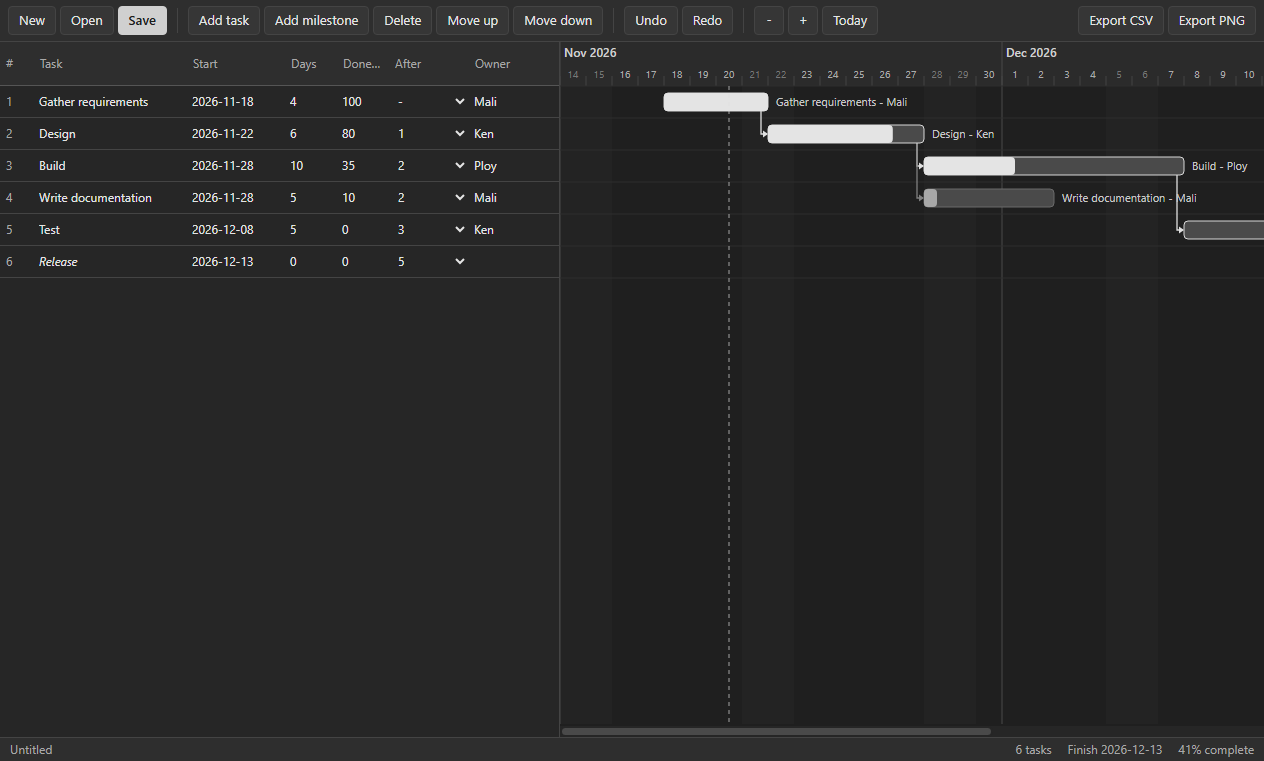
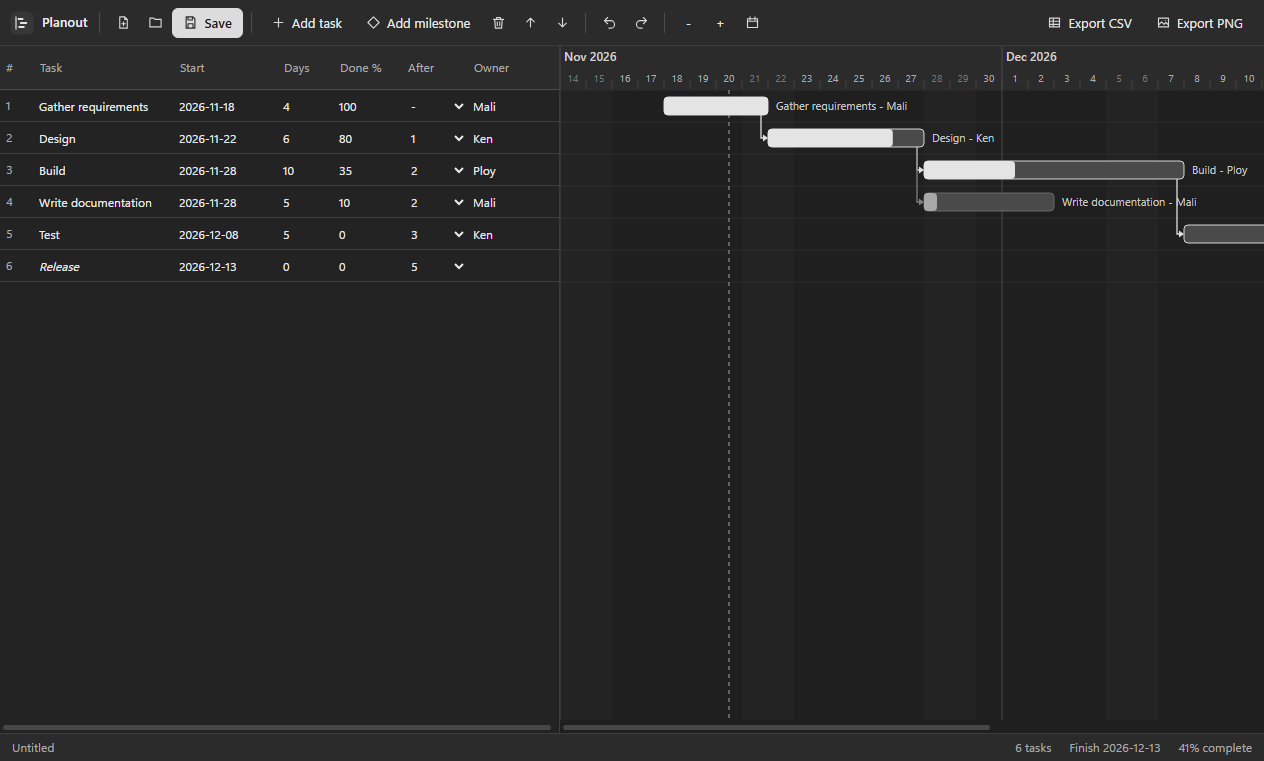
Planout 1.0.2: refreshed interface
Refreshed interface: line icons on every toolbar button, the app mark in the top bar, consistent control sizes and spacing, tidier side panels, and a toolbar that adapts to smaller windows. Also includes layout fixes and a fuller guide on the project page.

diff --git a/renderer/lookout.css b/renderer/lookout.css
@@ -1,62 +1,119 @@
-/* Lookout gray UI kit: flat, no glow, no gradients, no hue. */
+/* Lookout gray UI kit v2: flat, calm, no hue. Shared by every Lookout app. */
 :root{
-  --bg:#262626; --bg-2:#2e2e2e; --bg-3:#363636; --line:#444; --line-2:#555;
-  --text:#e4e4e4; --text-2:#a8a8a8; --text-3:#7c7c7c;
-  --accent:#d0d0d0; --accent-ink:#1c1c1c; --focus:#9a9a9a;
-  --radius:4px; --font:"Segoe UI",system-ui,-apple-system,sans-serif; --mono:Consolas,"Cascadia Mono",monospace;
+  --bg:#232323; --bg-2:#2b2b2b; --bg-3:#333333; --bg-4:#3b3b3b; --stage:#1c1c1c;
+  --line:#3d3d3d; --line-2:#4d4d4d; --line-3:#5c5c5c;
+  --text:#e8e8e8; --text-2:#ababab; --text-3:#7d7d7d;
+  --accent:#dcdcdc; --accent-ink:#1b1b1b; --focus:#a0a0a0;
+  --radius:6px; --h:30px;
+  --font:"Segoe UI Variable Text","Segoe UI",system-ui,-apple-system,sans-serif; --mono:Consolas,"Cascadia Mono",monospace;
 }
 *{box-sizing:border-box;margin:0;padding:0}
 html,body{height:100%;background:var(--bg);color:var(--text);font:13px/1.45 var(--font);overflow:hidden;user-select:none;-webkit-font-smoothing:antialiased}
 button,input,select,textarea{font:inherit;color:inherit}
 .app{display:grid;grid-template-rows:auto 1fr auto;height:100vh}
-.toolbar{display:flex;align-items:center;gap:4px;padding:6px 8px;background:var(--bg-2);border-bottom:1px solid var(--line);flex-wrap:wrap}
-.toolbar .sep{width:1px;align-self:stretch;background:var(--line);margin:2px 6px}
-.toolbar .grow{flex:1}
-.btn{background:var(--bg-3);border:1px solid var(--line);border-radius:var(--radius);padding:4px 10px;cursor:pointer;white-space:nowrap}
-.btn:hover{background:#404040;border-color:var(--line-2)}
+
+/* ---------- toolbar ---------- */
+.toolbar{display:flex;align-items:center;gap:2px;padding:7px 10px;min-height:46px;background:var(--bg-2);border-bottom:1px solid var(--line);flex-wrap:nowrap;overflow-x:auto;overflow-y:hidden;scrollbar-width:none}
+.toolbar::-webkit-scrollbar{height:0}
+.toolbar>*{flex-shrink:0}
+.toolbar .sep{width:1px;height:20px;align-self:center;background:var(--line-2);margin:0 6px}
+.toolbar .grow{flex:1 1 auto;min-width:8px}
+.toolbar input[type=text],.toolbar input[type=search]{width:170px}
+.brand{display:flex;align-items:center;gap:8px;padding-right:6px;margin-right:4px;font-weight:600;font-size:13px;color:var(--text)}
+.brand img{width:24px;height:24px;border-radius:6px;display:block}
+.brand+.sep{margin-left:0}
+
+/* ---------- buttons ---------- */
+.btn{display:inline-flex;align-items:center;justify-content:center;gap:6px;height:var(--h);padding:0 10px;background:var(--bg-3);border:1px solid var(--line);border-radius:var(--radius);cursor:pointer;white-space:nowrap;line-height:1;transition:background .08s,border-color .08s}
+.btn:hover{background:var(--bg-4);border-color:var(--line-2)}
 .btn:active{background:#2a2a2a}
-.btn:focus-visible,input:focus-visible,select:focus-visible,textarea:focus-visible,[tabindex]:focus-visible{outline:1px solid var(--focus);outline-offset:1px}
+.btn:focus-visible,input:focus-visible,select:focus-visible,textarea:focus-visible,[tabindex]:focus-visible{outline:2px solid var(--focus);outline-offset:1px}
 .btn.primary{background:var(--accent);color:var(--accent-ink);border-color:var(--accent);font-weight:600}
-.btn.primary:hover{background:#e0e0e0}
-.btn.on{background:#4a4a4a;border-color:var(--line-2)}
-.btn[disabled]{opacity:.4;pointer-events:none}
-.btn.icon{padding:4px 8px;min-width:30px;text-align:center}
-input[type=text],input[type=number],input[type=search],select,textarea{background:var(--bg);border:1px solid var(--line);border-radius:var(--radius);padding:4px 8px;user-select:text}
-input[type=range]{accent-color:#bdbdbd}
-input[type=color]{border:1px solid var(--line);background:var(--bg);width:28px;height:24px;padding:1px;border-radius:var(--radius)}
-label.field{display:flex;flex-direction:column;gap:3px;color:var(--text-2);font-size:12px}
-.main{display:flex;min-height:0}
-.sidebar{width:220px;background:var(--bg-2);border-right:1px solid var(--line);overflow:auto;padding:8px;flex-shrink:0}
-.sidebar.right{border-right:0;border-left:1px solid var(--line);width:250px}
-.sidebar h3,.panel-title{font-size:11px;text-transform:uppercase;letter-spacing:.08em;color:var(--text-3);margin:10px 0 6px;font-weight:600}
+.btn.primary:hover{background:#ececec;border-color:#ececec}
+.btn.on{background:#4a4a4a;border-color:var(--line-3);box-shadow:inset 0 0 0 1px #6a6a6a}
+.btn[disabled]{opacity:.38;pointer-events:none}
+.btn.icon{padding:0;width:var(--h);min-width:var(--h)}
+.btn .ic{width:15px;height:15px;flex-shrink:0;display:block;opacity:.92}
+.toolbar .btn:not(.primary):not(.on){background:transparent;border-color:transparent}
+.toolbar .btn:not(.primary):not(.on):hover{background:var(--bg-4);border-color:var(--line-2)}
+
+.toolbar.c1 .btn.minor:not(.primary):has(> svg.ic),.toolbar.c2 .btn:not(.primary):has(> svg.ic),.toolbar.c3 .btn:has(> svg.ic){font-size:0;gap:0;width:var(--h);padding:0}
+.toolbar.c2 .brand span{display:none}
+.toolbar.c2 input[type=text],.toolbar.c2 input[type=search]{width:120px}
+
+/* ---------- fields ---------- */
+input[type=text],input[type=number],input[type=search],input[type=date],select,textarea{background:var(--bg);border:1px solid var(--line-2);border-radius:var(--radius);padding:0 9px;height:var(--h);user-select:text;min-width:0}
+textarea{height:auto;padding:7px 9px;resize:vertical;line-height:1.45}
+select{padding-right:6px;cursor:pointer}
+input:hover,select:hover,textarea:hover{border-color:var(--line-3)}
+input[type=range]{accent-color:#c8c8c8;height:var(--h)}
+input[type=checkbox]{accent-color:#c8c8c8;width:15px;height:15px;cursor:pointer}
+input[type=color]{border:1px solid var(--line-2);background:var(--bg);width:30px;height:var(--h);padding:2px;border-radius:var(--radius)}
+label.field{display:flex;flex-direction:column;gap:4px;color:var(--text-2);font-size:12px}
+label.field>input,label.field>select,label.field>textarea{width:100%;color:var(--text);font-size:13px}
+
+/* ---------- layout ---------- */
+.main{display:flex;min-height:0;min-width:0}
+.sidebar{width:228px;background:var(--bg-2);border-right:1px solid var(--line);overflow:auto;padding:10px 12px 14px;flex-shrink:0}
+.sidebar.right{border-right:0;border-left:1px solid var(--line);width:272px}
+.sidebar h3,.panel-title{font-size:11px;text-transform:uppercase;letter-spacing:.08em;color:var(--text-3);margin:16px 0 8px;font-weight:600}
 .sidebar h3:first-child{margin-top:2px}
-.stage{flex:1;min-width:0;min-height:0;position:relative;background:#1f1f1f;overflow:auto}
-.status{display:flex;gap:16px;align-items:center;padding:3px 10px;background:var(--bg-2);border-top:1px solid var(--line);color:var(--text-2);font-size:12px}
+.sidebar input[type=text],.sidebar input[type=search],.sidebar select,.sidebar textarea{width:100%}
+.sidebar .row{flex-wrap:wrap}
+.sidebar .row>.btn{flex:1 1 auto}
+.sidebar .row>label.field{flex:1 1 0;min-width:0}
+.sidebar label.field{margin-bottom:10px}
+.sidebar .btn{width:auto}
+.sidebar>.btn{width:100%;margin-bottom:6px}
+.stage{flex:1;min-width:0;min-height:0;position:relative;background:var(--stage);overflow:auto}
+.status{display:flex;gap:18px;align-items:center;height:28px;padding:0 12px;background:var(--bg-2);border-top:1px solid var(--line);color:var(--text-2);font-size:12px;white-space:nowrap;overflow:hidden}
 .status .grow{flex:1}
 .list{display:flex;flex-direction:column;gap:2px}
-.list .item{padding:5px 8px;border-radius:var(--radius);cursor:pointer;border:1px solid transparent;display:flex;gap:6px;align-items:center}
+.list .item{padding:6px 8px;border-radius:var(--radius);cursor:pointer;border:1px solid transparent;display:flex;gap:6px;align-items:center;min-height:30px}
 .list .item:hover{background:var(--bg-3)}
-.list .item.sel{background:#444;border-color:var(--line-2)}
+.list .item.sel{background:var(--bg-4);border-color:var(--line-2)}
 .row{display:flex;gap:6px;align-items:center}
+.grow{flex:1 1 auto;min-width:0}
+.brow{display:grid;grid-template-columns:1fr 1fr;gap:6px;margin-bottom:6px}
+.brow>.btn{justify-content:flex-start}
+.frow{display:flex;align-items:center;gap:8px;margin-bottom:8px;color:var(--text-2)}
+.frow>input[type=text],.frow>input[type=number]{flex:1;color:var(--text)}
+.frow>span:first-child{min-width:44px}
+.frow>select{flex:1;min-width:0}
+.sidebar input[type=range]{width:100%}
+.sidebar .swatches{margin-bottom:10px}
+.list .item .btn{height:24px!important;width:26px!important;padding:0!important;font-size:0!important;gap:0;background:transparent;border-color:transparent;opacity:.55}
+.list .item:hover .btn,.list .item.sel .btn{opacity:1}
+.list .item .btn:hover{background:var(--bg-4);border-color:var(--line-2)}
 .col{display:flex;flex-direction:column;gap:6px}
 .muted{color:var(--text-2)}
-.empty{position:absolute;inset:0;display:flex;flex-direction:column;align-items:center;justify-content:center;gap:10px;color:var(--text-3);text-align:center;padding:20px}
-.empty .big{font-size:18px;color:var(--text-2)}
-.modal-back{position:fixed;inset:0;background:rgba(0,0,0,.55);display:flex;align-items:center;justify-content:center;z-index:50}
-.modal{background:var(--bg-2);border:1px solid var(--line-2);border-radius:6px;min-width:340px;max-width:80vw;max-height:85vh;overflow:auto;padding:16px;display:flex;flex-direction:column;gap:12px}
-.modal h2{font-size:15px;font-weight:600}
-.toast{position:fixed;left:50%;bottom:34px;transform:translateX(-50%);background:var(--bg-3);border:1px solid var(--line-2);padding:7px 14px;border-radius:var(--radius);z-index:60}
-.progress{height:6px;background:var(--bg);border:1px solid var(--line);border-radius:3px;overflow:hidden}
-.progress>i{display:block;height:100%;background:var(--accent);width:0}
-table.grid{border-collapse:collapse;width:100%}
-table.grid th,table.grid td{border:1px solid var(--line);padding:4px 8px;text-align:left}
-table.grid th{background:var(--bg-2);color:var(--text-2);font-weight:600}
-::-webkit-scrollbar{width:11px;height:11px}
-::-webkit-scrollbar-thumb{background:#4a4a4a;border:2px solid var(--bg);border-radius:6px}
-::-webkit-scrollbar-track{background:var(--bg)}
-.swatches{display:flex;flex-wrap:wrap;gap:4px}
-.swatches button{width:22px;height:22px;border:1px solid var(--line-2);border-radius:3px;cursor:pointer;padding:0}
-.swatches button.on{outline:2px solid var(--accent);outline-offset:1px}
-.progress>div{display:block;height:100%;background:var(--accent)}
-table.grid tr.sel td{background:#3a3a3a}
+.empty{position:absolute;inset:0;display:flex;flex-direction:column;align-items:center;justify-content:center;gap:12px;color:var(--text-3);text-align:center;padding:24px}
+.empty .big{font-size:18px;color:var(--text-2);font-weight:600}
+
+/* ---------- overlays ---------- */
+.modal-back{position:fixed;inset:0;background:rgba(0,0,0,.6);display:flex;align-items:center;justify-content:center;z-index:50}
+.modal{background:var(--bg-2);border:1px solid var(--line-2);border-radius:10px;min-width:360px;max-width:80vw;max-height:85vh;overflow:auto;padding:20px;display:flex;flex-direction:column;gap:14px;box-shadow:0 18px 50px rgba(0,0,0,.5)}
+.modal h2{font-size:16px;font-weight:600}
+.toast{position:fixed;left:50%;bottom:40px;transform:translateX(-50%);background:var(--bg-4);border:1px solid var(--line-3);padding:9px 16px;border-radius:8px;z-index:60;box-shadow:0 8px 24px rgba(0,0,0,.4)}
+.progress{height:6px;background:var(--bg);border:1px solid var(--line);border-radius:4px;overflow:hidden}
+.progress>i,.progress>div{display:block;height:100%;background:var(--accent);width:0}
+
+/* ---------- tables ---------- */
+table.grid{border-collapse:separate;border-spacing:0;width:100%}
+table.grid th,table.grid td{border-bottom:1px solid var(--line);padding:0 12px;height:38px;text-align:left;vertical-align:middle}
+table.grid th{background:var(--bg-2);color:var(--text-2);font-weight:600;font-size:12px;position:sticky;top:0;z-index:1;height:34px}
+table.grid tbody tr:hover td{background:#262626}
+table.grid tr.sel td{background:#353535}
 table.grid tbody tr{cursor:default}
+table.grid td .btn{height:26px;margin-left:8px;vertical-align:middle}
+table.grid td{white-space:nowrap}
+
+/* ---------- misc ---------- */
+::-webkit-scrollbar{width:11px;height:11px}
+::-webkit-scrollbar-thumb{background:#474747;border:3px solid transparent;background-clip:padding-box;border-radius:8px}
+::-webkit-scrollbar-thumb:hover{background:#5a5a5a;background-clip:padding-box;border:3px solid transparent}
+::-webkit-scrollbar-track,::-webkit-scrollbar-corner{background:transparent}
+.swatches{display:flex;flex-wrap:wrap;gap:6px}
+.swatches button{width:24px;height:24px;border:1px solid var(--line-3);border-radius:5px;cursor:pointer;padding:0}
+.swatches button.on{outline:2px solid var(--accent);outline-offset:2px}
+kbd{font-family:var(--mono);font-size:11px;background:var(--bg-3);border:1px solid var(--line-2);border-bottom-width:2px;border-radius:4px;padding:0 5px}

diff --git a/renderer/kit.js b/renderer/kit.js
@@ -1,0 +1,137 @@
+// Lookout UI kit: adds the app mark to the toolbar and monochrome line icons to buttons.
+// Purely visual. Buttons keep their text, so nothing else changes.
+(function () {
+  'use strict';
+  const NS = 'http://www.w3.org/2000/svg';
+  const P = {
+    plus: 'M12 5v14M5 12h14',
+    file: 'M14 3H6v18h12V7zM14 3v4h4M12 11v6M9 14h6',
+    folder: 'M3 7V5h6l2 2h10v12H3z',
+    save: 'M5 3h11l3 3v15H5zM8 3v5h7V3M8 21v-7h8v7',
+    saveas: 'M5 3h11l3 3v6M5 3v18h7M8 3v5h7V3M15 21l6-6-2-2-6 6v2z',
+    undo: 'M9 14L4 9l5-5M4 9h10a6 6 0 010 12h-3',
+    redo: 'M15 14l5-5-5-5M20 9H10a6 6 0 000 12h3',
+    trash: 'M4 7h16M10 11v6M14 11v6M6 7l1 14h10l1-14M9 7V4h6v3',
+    copy: 'M9 9h11v11H9zM5 15H4V4h11v1',
+    paste: 'M9 4h6v3H9zM8 5H5v16h14V5h-3',
+    dup: 'M8 8h12v12H8zM4 16V4h12M14 11v6M11 14h6',
+    download: 'M12 4v11M7 10l5 5 5-5M5 20h14',
+    fit: 'M4 9V4h5M15 4h5v5M20 15v5h-5M9 20H4v-5',
+    play: 'M7 4l13 8-13 8z',
+    stop: 'M6 6h12v12H6z',
+    pause: 'M7 5h3v14H7zM14 5h3v14h-3z',
+    rec: 'M12 5a7 7 0 100 14 7 7 0 000-14z',
+    scissors: 'M6 9a3 3 0 100-6 3 3 0 000 6zM6 21a3 3 0 100-6 3 3 0 000 6zM8.2 7.8L20 19M8.2 16.2L20 5',
+    pointer: 'M5 3l14 7-6 2-2 6z',
+    hand: 'M8 13V6a1.5 1.5 0 013 0v5M11 11V4.5a1.5 1.5 0 013 0V11M14 11V6a1.5 1.5 0 013 0v8a7 7 0 01-7 7 6 6 0 01-5-3l-2.5-4.5a1.5 1.5 0 012.6-1.5L8 15',
+    connector: 'M5 19L19 5M13 5h6v6',
+    frame: 'M7 3v18M17 3v18M3 7h18M3 17h18',
+    rect: 'M4 6h16v12H4z',
+    ellipse: 'M12 5c4.4 0 8 3.1 8 7s-3.6 7-8 7-8-3.1-8-7 3.6-7 8-7z',
+    line: 'M5 19L19 5',
+    text: 'M5 6V4h14v2M12 4v16M9 20h6',
+    highlight: 'M14 4l6 6-8 8H6v-6zM4 21h16',
+    pen: 'M4 20l4-1 11-11-3-3L5 16zM14 7l3 3',
+    redact: 'M4 8h16v8H4z',
+    sign: 'M3 17c3-6 5-9 7-9 3 0-2 9 1 9 2 0 3-3 5-3s1 3 5 3M3 21h18',
+    eraser: 'M8 20l-4-4 10-10 6 6-10 8zM12 20h8',
+    search: 'M11 4a7 7 0 100 14 7 7 0 000-14zM16 16l5 5',
+    list: 'M9 6h11M9 12h11M9 18h11M4 6h.01M4 12h.01M4 18h.01',
+    child: 'M5 4v8a3 3 0 003 3h11M15 11l4 4-4 4',
+    sibling: 'M5 6h14M5 12h14M12 15v6M9 18h6',
+    collapse: 'M6 9l6 6 6-6',
+    expand: 'M7 14l5-5 5 5',
+    calendar: 'M4 6h16v14H4zM4 10h16M8 3v5M16 3v5',
+    diamond: 'M12 3l9 9-9 9-9-9z',
+    up: 'M12 19V5M6 11l6-6 6 6',
+    down: 'M12 5v14M6 13l6 6 6-6',
+    refresh: 'M20 11a8 8 0 10-2.3 5.7M20 4v7h-7',
+    check: 'M4 12l5 5L20 6',
+    convert: 'M4 8h13M13 4l4 4-4 4M20 16H7M11 12l-4 4 4 4',
+    eye: 'M2 12s4-7 10-7 10 7 10 7-4 7-10 7S2 12 2 12zM12 9a3 3 0 100 6 3 3 0 000-6z',
+    info: 'M12 3a9 9 0 100 18 9 9 0 000-18zM12 11v6M12 7.5h.01',
+    front: 'M8 8h12v12H8zM4 4h10v3M4 4v10h3',
+    back: 'M4 4h12v12H4zM20 8v12H8v-4',
+    merge: 'M6 3v6a6 6 0 006 6h6M15 12l3 3-3 3M6 21v-4',
+    rotl: 'M4 10a8 8 0 112 6M4 4v6h6',
+    rotr: 'M20 10a8 8 0 10-2 6M20 4v6h-6',
+    blank: 'M6 3h12v18H6z',
+    extract: 'M14 3H6v18h12V7zM14 3v4h4M12 10v7M9 14l3 3 3-3',
+    mic: 'M12 3a3 3 0 00-3 3v6a3 3 0 006 0V6a3 3 0 00-3-3zM6 11a6 6 0 0012 0M12 17v4',
+    clear: 'M6 6l12 12M18 6L6 18',
+    gaps: 'M3 6v12M21 6v12M7 12h10M10 9l-3 3 3 3M14 9l3 3-3 3',
+    title: 'M4 5h16v14H4zM8 9h8M12 9v7',
+    dashed: 'M4 12h3M10 12h4M17 12h3',
+    arrow: 'M4 12h15M14 7l5 5-5 5',
+    elbow: 'M4 6h8v12h8',
+    label: 'M3 12l6-7h12v14H9zM8 12h.01',
+    image: 'M4 5h16v14H4zM4 16l5-5 4 4 3-3 4 4M15 9h.01',
+    vector: 'M5 19L12 5l7 14M8 13h8M3 19h4M17 19h4',
+    table: 'M4 5h16v14H4zM4 10h16M4 15h16M10 5v14',
+    lock: 'M6 11h12v9H6zM8 11V8a4 4 0 018 0v3',
+    unlock: 'M6 11h12v9H6zM8 11V8a4 4 0 017.5-2',
+    eyeoff: 'M3 3l18 18M10.6 6.1A10 10 0 0112 6c6 0 10 6 10 6a17 17 0 01-3 3.6M6.6 6.6C3.8 8.3 2 12 2 12s4 7 10 7a9.7 9.7 0 004.4-1',
+  };
+  const MAP = {
+    'New': 'file', 'Open': 'folder', 'Open project': 'folder', 'Open file': 'folder', 'Save': 'save', 'Save project': 'save', 'Save as': 'saveas',
+    'Undo': 'undo', 'Redo': 'redo', 'Delete': 'trash', 'Delete clip': 'trash', 'Remove selected': 'trash', 'Copy': 'copy', 'Paste': 'paste', 'Duplicate': 'dup',
+    'Export PNG': 'image', 'Export SVG': 'vector', 'Export CSV': 'table', 'Export': 'download', 'Export page as PNG': 'download', 'Extract all text': 'text',
+    'Fit': 'fit', 'Play': 'play', 'Stop': 'stop', 'Pause': 'pause', 'Resume': 'play', 'Record': 'rec', 'Split': 'scissors', 'Split here': 'scissors',
+    'Select': 'pointer', 'Move': 'pointer', 'Hand': 'hand', 'Connector': 'connector', 'Frame': 'frame', 'Rectangle': 'rect', 'Box': 'rect', 'Ellipse': 'ellipse', 'Line': 'line', 'Text': 'text',
+    'Highlight': 'highlight', 'Pen': 'pen', 'Redact': 'redact', 'Sign': 'sign', 'Erase': 'eraser', 'Preview': 'eye', 'Outline': 'list',
+    'Add child': 'child', 'Add sibling': 'sibling', 'Edit': 'pen', 'Collapse': 'collapse', 'Expand all': 'expand', 'Today': 'calendar',
+    'Add task': 'plus', 'Add milestone': 'diamond', 'Move up': 'up', 'Move down': 'down', 'Up': 'up', 'Down': 'down',
+    'Import media': 'plus', 'Add files': 'plus', 'Output folder': 'folder', 'Convert all': 'convert', 'Clear finished': 'clear', 'Show': 'folder', 'Show in folder': 'folder',
+    'Check file': 'check', 'Repair to new file': 'download', 'Refresh sources': 'refresh', 'Start recording': 'rec', 'Stop and review': 'stop', 'New recording': 'rec',
+    'Check for updates': 'refresh', 'Info': 'info', 'Merge': 'merge', 'Rotate L': 'rotl', 'Rotate R': 'rotr', 'Blank': 'blank', 'Extract': 'extract',
+    'Front': 'front', 'Back': 'back', 'Close gaps': 'gaps', 'Title text': 'title', 'Dashed': 'dashed', 'Arrow on/off': 'arrow', 'Straight / Elbow': 'elbow', 'Edit label': 'label',
+    'Cut': 'scissors', 'Trim to selection': 'fit', 'Locate missing files': 'search',
+  };
+  const LMAP = { 'Hide': 'eye', 'Show': 'eyeoff', 'Lock': 'unlock', 'Unlock': 'lock' };
+  function icon(name) {
+    const s = document.createElementNS(NS, 'svg');
+    s.setAttribute('viewBox', '0 0 24 24'); s.setAttribute('class', 'ic'); s.setAttribute('aria-hidden', 'true');
+    s.setAttribute('fill', 'none'); s.setAttribute('stroke', 'currentColor'); s.setAttribute('stroke-width', '1.8');
+    s.setAttribute('stroke-linecap', 'round'); s.setAttribute('stroke-linejoin', 'round');
+    const p = document.createElementNS(NS, 'path'); p.setAttribute('d', P[name]); s.append(p);
+    return s;
+  }
+  function decorate(b) {
+    if (b.tagName !== 'BUTTON' || !b.classList.contains('btn')) return;
+    const label = (b.textContent || '').trim();
+    const name = (b.closest('.list') && LMAP[label]) || MAP[label];
+    const cur = b.querySelector(':scope > svg.ic');
+    if (cur && cur.dataset.for === label) return;
+    if (cur) cur.remove();
+    if (!name) return;
+    const s = icon(name); s.dataset.for = label; b.prepend(s);
+    if (!b.title) b.title = label;
+  }
+  function brand(bar) {
+    if (!bar || bar.querySelector(':scope > .brand') || (document.title && (bar.textContent || '').includes(document.title))) return;
+    const name = document.title || '';
+    const d = document.createElement('div'); d.className = 'brand';
+    const img = document.createElement('img'); img.src = 'brand.svg'; img.alt = '';
+    const t = document.createElement('span'); t.textContent = name;
+    d.append(img, t);
+    const sep = document.createElement('span'); sep.className = 'sep';
+    bar.prepend(d, sep);
+  }
+  const MINOR = new Set(['New', 'Open', 'Undo', 'Redo', 'Copy', 'Paste', 'Duplicate', 'Delete', 'Front', 'Back', 'Fit', 'Hand', 'Merge', 'Move up', 'Move down', 'Today', 'Cut', 'Dashed', 'Arrow on/off', 'Straight / Elbow', 'Edit label', 'Output folder', 'Remove selected', 'Clear finished', 'Refresh sources', 'Stop', 'Collapse', 'Expand all', 'Select', 'Move']);
+  function fitBar(bar) {
+    bar.classList.remove('c1', 'c2', 'c3');
+    bar.querySelectorAll(':scope > .btn').forEach((b) => b.classList.toggle('minor', MINOR.has((b.textContent || '').trim())));
+    for (const c of ['c1', 'c2', 'c3']) { if (bar.scrollWidth <= bar.clientWidth + 1) break; bar.classList.add(c); }
+  }
+  window.addEventListener('resize', () => { const bar = document.querySelector('.app > .toolbar'); if (bar) fitBar(bar); });
+  let queued = false;
+  function sweep() {
+    queued = false;
+    document.querySelectorAll('.btn').forEach(decorate);
+    const bar = document.querySelector('.app > .toolbar');
+    if (bar && bar.children.length) { brand(bar); fitBar(bar); }
+  }
+  const mo = new MutationObserver(() => { if (!queued) { queued = true; requestAnimationFrame(sweep); } });
+  function start() { mo.observe(document.body, { childList: true, subtree: true, characterData: true }); sweep(); }
+  if (document.readyState === 'loading') document.addEventListener('DOMContentLoaded', start); else start();
+})();

diff --git a/renderer/app.js b/renderer/app.js
@@ -79,11 +79,11 @@ toolbar.append(btn('New', newDoc), btn('Open', openDoc), btn('Save', saveDoc, 'p
   btn('-', () => { dayW = clamp(dayW / 1.25, 6, 80); render(); }, 'icon'), btn('+', () => { dayW = clamp(dayW * 1.25, 6, 80); render(); }, 'icon'), btn('Today', scrollToday), h('span', { class: 'grow' }),
   btn('Export CSV', exportCsv), btn('Export PNG', exportPng));
 const style = h('style', { text: `
-.pl-head,.pl-row{display:grid;grid-template-columns:34px 1fr 98px 52px 52px 80px 90px;align-items:center;gap:0;border-bottom:1px solid var(--line);height:32px;font-size:12px}
+.pl-head,.pl-row{display:grid;grid-template-columns:34px minmax(140px,1fr) 104px 56px 68px 66px 96px;align-items:center;gap:0;border-bottom:1px solid var(--line);height:32px;font-size:12px}
 .pl-head{background:var(--bg-2);color:var(--text-2);height:44px;border-bottom:1px solid var(--line-2);padding-top:0}
 .pl-head>div,.pl-row>div{padding:0 6px;white-space:nowrap;overflow:hidden;text-overflow:ellipsis}
 .pl-row.sel{background:#3a3a3a}
-.pl-row input,.pl-row select{width:100%;background:transparent;border:1px solid transparent;color:var(--text);padding:3px 4px;font:inherit;border-radius:3px}
+.pl-row input,.pl-row select{height:26px;width:100%;background:transparent;border:1px solid transparent;color:var(--text);padding:3px 4px;font:inherit;border-radius:3px}
 .pl-row input:hover,.pl-row select:hover{border-color:var(--line-2)}
 .pl-row input:focus,.pl-row select:focus{border-color:var(--accent);background:var(--bg)}
 .pl-row.ms .nm{font-style:italic}
@@ -100,9 +100,9 @@ function render() {
   tHead.textContent = '';
   tHead.style.display = 'grid';
   ['#', 'Task', 'Start', 'Days', 'Done %', 'After', 'Owner'].forEach((c) => tHead.append(h('div', { text: c })));
-  tHead.style.gridTemplateColumns = '34px 1fr 98px 52px 52px 80px 90px';
+  tHead.style.gridTemplateColumns = '34px minmax(140px,1fr) 104px 56px 68px 66px 96px';
   tBody.textContent = '';
-  const cols = '34px 1fr 98px 52px 52px 80px 90px';
+  const cols = '34px minmax(140px,1fr) 104px 56px 68px 66px 96px';
   doc.tasks.forEach((t, i) => {
     const row = h('div', { class: 'pl-row' + (sel === t.id ? ' sel' : '') + (t.dur === 0 ? ' ms' : ''), style: `grid-template-columns:${cols}`, 'data-id': t.id, onclick: () => { if (sel !== t.id) { sel = t.id; render(); } } });
     const name = h('input', { class: 'nm', type: 'text', value: t.name, onfocus: commit, oninput: (e) => { t.name = e.target.value; drawGantt(); } });

diff --git a/renderer/index.html b/renderer/index.html
@@ -10,6 +10,7 @@
 </head>
 <body>
 <div class="app" id="app"></div>
+<script src="kit.js"></script>
 <script src="app.js"></script>
 </body>
 </html>

diff --git a/README.md b/README.md
@@ -1,6 +1,6 @@
 <p align="center"><img src="screenshots/banner.png" alt="Planout" width="100%"></p>
 
-<p align="center"><b>Plans and Gantt timelines</b><br>Version 1.0.1 for Windows · Free · Offline · No account</p>
+<p align="center"><b>Plans and Gantt timelines</b><br>Version 1.0.2 for Windows · Free · Offline · No account</p>
 
 <p align="center"><a href="https://github.com/plawanpawin-byte/planout/releases/latest"><b>Download Planout</b></a> · <a href="https://github.com/plawanpawin-byte/Lookout">All Lookout apps</a></p>
 
@@ -11,6 +11,12 @@ Planout turns a list of tasks into a project plan. Give each task a start date, 
 **Made for:** Project managers, freelancers, event organisers, builders and students: anyone who needs to see what happens when, and who is doing it.
 
 ![Planout](screenshots/01-gantt-plan.png)
+
+**On this page:** [Screenshots](#see-it-in-action) · [Interface](#the-interface) · [Features](#everything-it-can-do) · [How to use it](#how-to-use-it) · [Shortcuts](#keyboard-shortcuts) · [Formats](#files-and-formats) · [Privacy](#private-by-design) · [Install](#install) · [Questions](#questions)
+
+## What is new in 1.0.2
+
+A refreshed interface: every toolbar button now has a clear line icon, the app's mark sits at the top left, controls share one height and spacing, panels line up in tidy grids, and the toolbar keeps every button reachable on smaller windows by switching less important buttons to icons.
 
 ## See it in action
 
@@ -43,6 +49,12 @@ The chart exported as a PNG for a status report or a slide.
 ![CSV output](screenshots/05-csv-output.png)
 
 Task names, dates, durations, progress and owners as a CSV file that opens in any spreadsheet.
+
+## The interface
+
+- **Top bar:** file buttons, Add task, Add milestone, delete and reorder, undo and redo, timeline zoom, Today, and Export CSV / PNG.
+- **Task table (left):** number, name, start, days, done %, the task it comes after, and owner, all editable in place.
+- **Timeline (right):** the Gantt chart with today marker, progress bars, milestones and dependency arrows. The status bar shows the finish date and overall progress.
 
 ## Everything it can do
 
@@ -122,5 +134,15 @@ Share the .planout file. There is no live co-editing because nothing goes online
 ## About Lookout
 
 Planout belongs to the **[Lookout](https://github.com/plawanpawin-byte/Lookout)** family: ten small, private Windows apps for documents and media, all with the same calm grey look and the same promise that your files stay yours. Install and update them together with the [Lookout launcher](https://github.com/plawanpawin-byte/lookout-launcher).
+
+- **[Pageout](https://github.com/plawanpawin-byte/pageout)**: read, annotate and sign pdfs
+- **[Chartout](https://github.com/plawanpawin-byte/chartout)**: flowcharts and diagrams
+- **[Branchout](https://github.com/plawanpawin-byte/branchout)**: mind maps and outlines
+- **[Frameout](https://github.com/plawanpawin-byte/frameout)**: screen design and prototypes
+- **[Cutout](https://github.com/plawanpawin-byte/cutout)**: video editing on a timeline
+- **[Shiftout](https://github.com/plawanpawin-byte/shiftout)**: convert and compress media
+- **[Castout](https://github.com/plawanpawin-byte/castout)**: record your screen
+- **[Mendout](https://github.com/plawanpawin-byte/mendout)**: repair damaged media
+- **[Tuneout](https://github.com/plawanpawin-byte/tuneout)**: record and edit audio
 
 Released under the MIT License.
